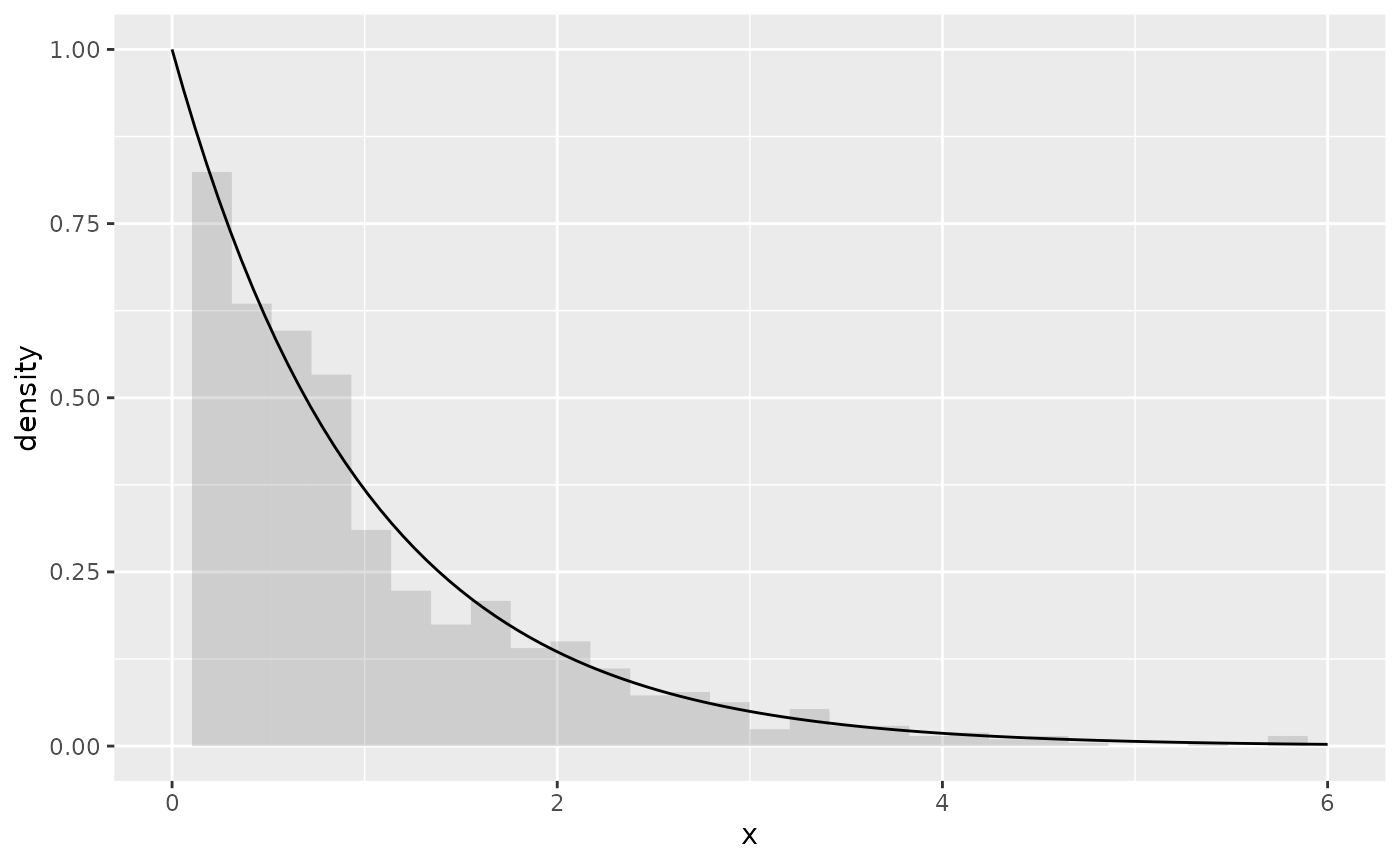
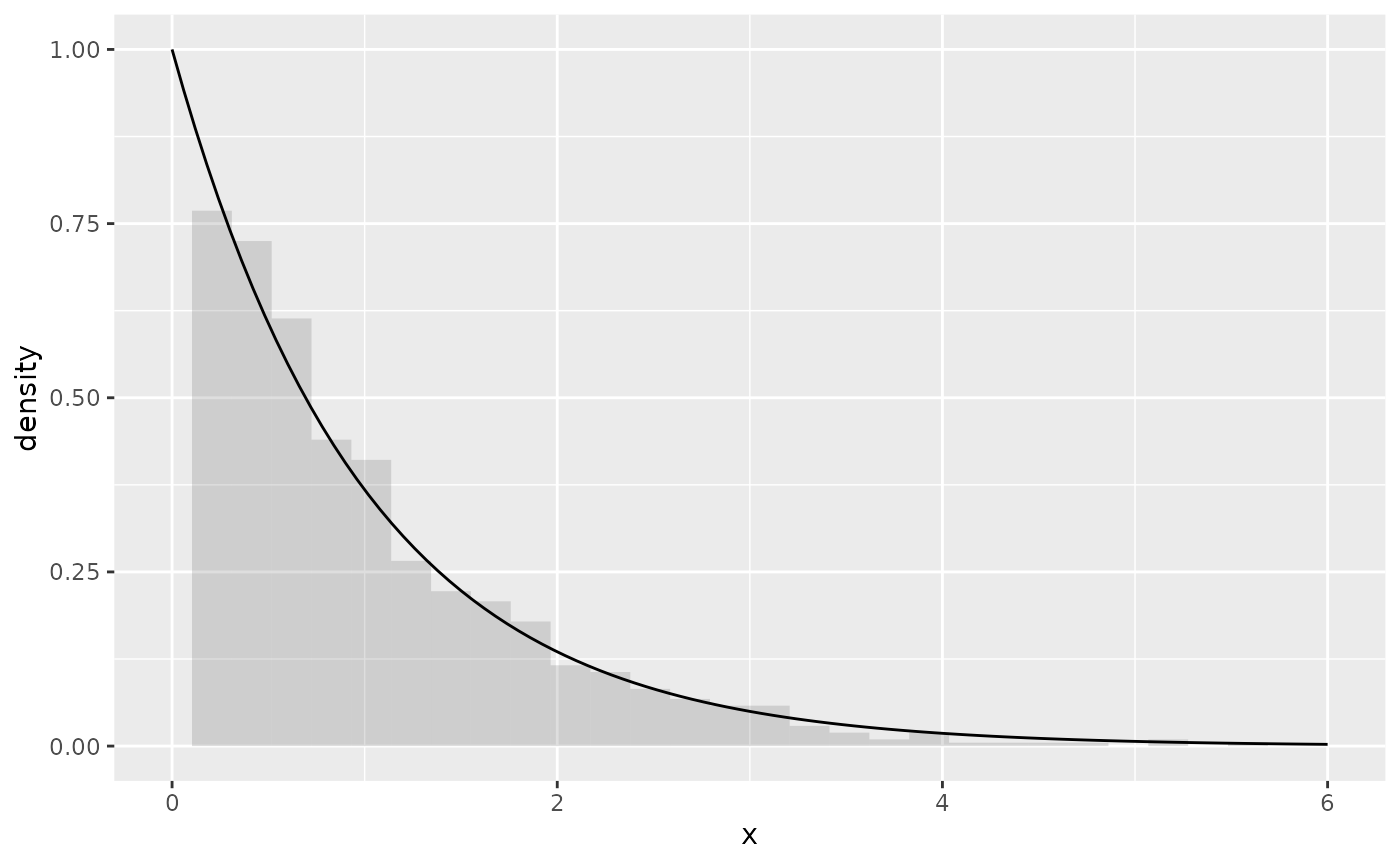
Built site for algebraic.mle: 0.1.0@c8ae6bf

diff --git a/articles/exponential-mle.html b/articles/exponential-mle.html
@@ -103,10 +103,10 @@
 <span class="co">#&gt; <span style="color: #949494;"># A tibble: 4 × 1</span></span>
 <span class="co">#&gt;       x</span>
 <span class="co">#&gt;   <span style="color: #949494; font-style: italic;">&lt;dbl&gt;</span></span>
-<span class="co">#&gt; <span style="color: #BCBCBC;">1</span> 0.731</span>
-<span class="co">#&gt; <span style="color: #BCBCBC;">2</span> 0.813</span>
-<span class="co">#&gt; <span style="color: #BCBCBC;">3</span> 0.292</span>
-<span class="co">#&gt; <span style="color: #BCBCBC;">4</span> 2.43</span></code></pre></div>
+<span class="co">#&gt; <span style="color: #BCBCBC;">1</span> 0.178</span>
+<span class="co">#&gt; <span style="color: #BCBCBC;">2</span> 0.308</span>
+<span class="co">#&gt; <span style="color: #BCBCBC;">3</span> 1.93 </span>
+<span class="co">#&gt; <span style="color: #BCBCBC;">4</span> 0.118</span></code></pre></div>
 <p>We show a histogram of the sample, and a plot of the exponential function’s pdf, with:</p>
 <div class="sourceCode" id="cb4"><pre class="downlit sourceCode r">
 <code class="sourceCode R"><span class="kw"><a href="https://rdrr.io/r/base/library.html" class="external-link">library</a></span><span class="op">(</span><span class="va"><a href="https://ggplot2.tidyverse.org" class="external-link">ggplot2</a></span><span class="op">)</span>
@@ -124,35 +124,35 @@
 <span class="fu"><a href="https://rdrr.io/r/base/summary.html" class="external-link">summary</a></span><span class="op">(</span><span class="va">rate.hat</span><span class="op">)</span>
 <span class="co">#&gt; Maximum likelihood estimator, of type mle_exp ,</span>
 <span class="co">#&gt; is normally distributed with mean</span>
-<span class="co">#&gt; [1] 1.010655</span>
+<span class="co">#&gt; [1] 1.045222</span>
 <span class="co">#&gt; and variance-covariance</span>
-<span class="co">#&gt;             [,1]</span>
-<span class="co">#&gt; [1,] 0.001021424</span>
+<span class="co">#&gt;            [,1]</span>
+<span class="co">#&gt; [1,] 0.00109249</span>
 <span class="co">#&gt; ---</span>
-<span class="co">#&gt; The asymptotic mean squared error 0.001021424 </span>
+<span class="co">#&gt; The asymptotic mean squared error 0.00109249 </span>
 <span class="co">#&gt; The asymptotic 95% confidence interval is</span>
 <span class="co">#&gt;       2.5 %   97.5 %</span>
-<span class="co">#&gt; 1 0.9580861 1.063224</span>
-<span class="co">#&gt; The log-likelihood is -989.4012 </span>
-<span class="co">#&gt; The AIC is 1980.802</span></code></pre></div>
+<span class="co">#&gt; 1 0.9908553 1.099589</span>
+<span class="co">#&gt; The log-likelihood is -955.7703 </span>
+<span class="co">#&gt; The AIC is 1913.541</span></code></pre></div>
 <p>We can show the point estimator with:</p>
 <div class="sourceCode" id="cb6"><pre class="downlit sourceCode r">
 <code class="sourceCode R"><span class="fu"><a href="../reference/point.html">point</a></span><span class="op">(</span><span class="va">rate.hat</span><span class="op">)</span>
-<span class="co">#&gt; [1] 1.010655</span></code></pre></div>
+<span class="co">#&gt; [1] 1.045222</span></code></pre></div>
 <p>We can show the Fisher information and variance-covariance matrices with:</p>
 <div class="sourceCode" id="cb7"><pre class="downlit sourceCode r">
 <code class="sourceCode R"><span class="fu"><a href="../reference/fisher_info.html">fisher_info</a></span><span class="op">(</span><span class="va">rate.hat</span><span class="op">)</span>
 <span class="co">#&gt;          [,1]</span>
-<span class="co">#&gt; [1,] 979.0255</span>
+<span class="co">#&gt; [1,] 915.3403</span>
 <span class="fu"><a href="https://rdrr.io/r/stats/vcov.html" class="external-link">vcov</a></span><span class="op">(</span><span class="va">rate.hat</span><span class="op">)</span>
-<span class="co">#&gt;             [,1]</span>
-<span class="co">#&gt; [1,] 0.001021424</span></code></pre></div>
+<span class="co">#&gt;            [,1]</span>
+<span class="co">#&gt; [1,] 0.00109249</span></code></pre></div>
 <p>(If <code>rate.hat</code> had been a vector, <code>vcov</code> would have output a variance-covariance matrix. We may consider the above outputs <span class="math inline">\(1 \times 1\)</span> matrices.)</p>
 <p>We can show the confidence interval with:</p>
 <div class="sourceCode" id="cb8"><pre class="downlit sourceCode r">
 <code class="sourceCode R"><span class="fu"><a href="https://rdrr.io/r/stats/confint.html" class="external-link">confint</a></span><span class="op">(</span><span class="va">rate.hat</span><span class="op">)</span>
 <span class="co">#&gt;       2.5 %   97.5 %</span>
-<span class="co">#&gt; 1 0.9580861 1.063224</span></code></pre></div>
+<span class="co">#&gt; 1 0.9908553 1.099589</span></code></pre></div>
 <div class="section level3">
 <h3 id="sampling-distribution-of-the-mle">Sampling distribution of the MLE<a class="anchor" aria-label="anchor" href="#sampling-distribution-of-the-mle"></a>
 </h3>
@@ -204,10 +204,10 @@
 <p>We expected a mean of <span class="math inline">\(2\)</span> and a variance of <span class="math inline">\(4/n = 0.004\)</span>, which is pretty close to what we obtained:</p>
 <div class="sourceCode" id="cb14"><pre class="downlit sourceCode r">
 <code class="sourceCode R"><span class="fu"><a href="../reference/point.html">point</a></span><span class="op">(</span><span class="va">f.hat</span><span class="op">)</span>
-<span class="co">#&gt; [1] 2.02131</span>
+<span class="co">#&gt; [1] 2.090445</span>
 <span class="fu"><a href="https://rdrr.io/r/stats/vcov.html" class="external-link">vcov</a></span><span class="op">(</span><span class="va">f.hat</span><span class="op">)</span>
 <span class="co">#&gt;             [,1]</span>
-<span class="co">#&gt; [1,] 0.004364325</span></code></pre></div>
+<span class="co">#&gt; [1,] 0.004597808</span></code></pre></div>
 </div>
 </div>
 </div>
@@ -246,9 +246,9 @@
 <span class="fu"><a href="https://rdrr.io/r/base/colnames.html" class="external-link">colnames</a></span><span class="op">(</span><span class="va">df</span><span class="op">)</span> <span class="op">&lt;-</span> <span class="fu"><a href="https://rdrr.io/r/base/c.html" class="external-link">c</a></span><span class="op">(</span><span class="st">"point estimate"</span>,<span class="st">"variance"</span><span class="op">)</span>
 <span class="fu"><a href="https://tibble.tidyverse.org/reference/rownames.html" class="external-link">rownames</a></span><span class="op">(</span><span class="va">df</span><span class="op">)</span> <span class="op">&lt;-</span> <span class="fu"><a href="https://rdrr.io/r/base/c.html" class="external-link">c</a></span><span class="op">(</span><span class="st">"weighted MLE"</span>, <span class="st">"MLE"</span><span class="op">)</span>
 <span class="fu"><a href="https://rdrr.io/r/base/print.html" class="external-link">print</a></span><span class="op">(</span><span class="va">df</span><span class="op">)</span>
-<span class="co">#&gt;              point estimate     variance</span>
-<span class="co">#&gt; weighted MLE      0.9927887 0.0009875168</span>
-<span class="co">#&gt; MLE               0.9946898 0.0009894078</span></code></pre></div>
+<span class="co">#&gt;              point estimate    variance</span>
+<span class="co">#&gt; weighted MLE       1.040783 0.001086029</span>
+<span class="co">#&gt; MLE                1.043474 0.001088838</span></code></pre></div>
 <p>We see that <span class="math inline">\(\hat\theta\)</span> and <span class="math inline">\(\hat\theta_w\)</span> model approximately the same sampling distribution for <span class="math inline">\(\theta\)</span>.</p>
 </div>
 </div>
